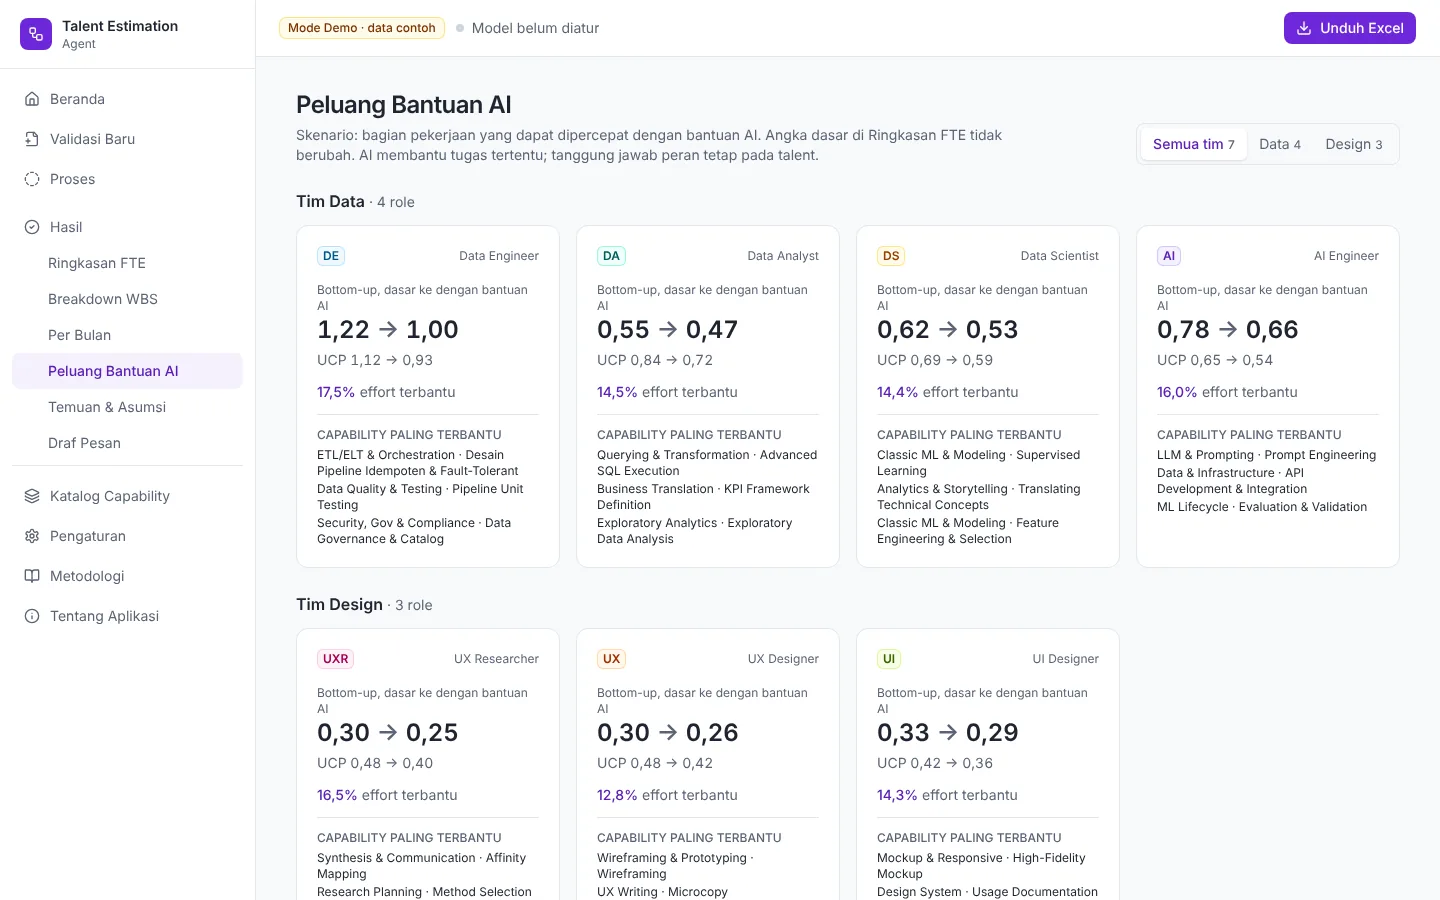
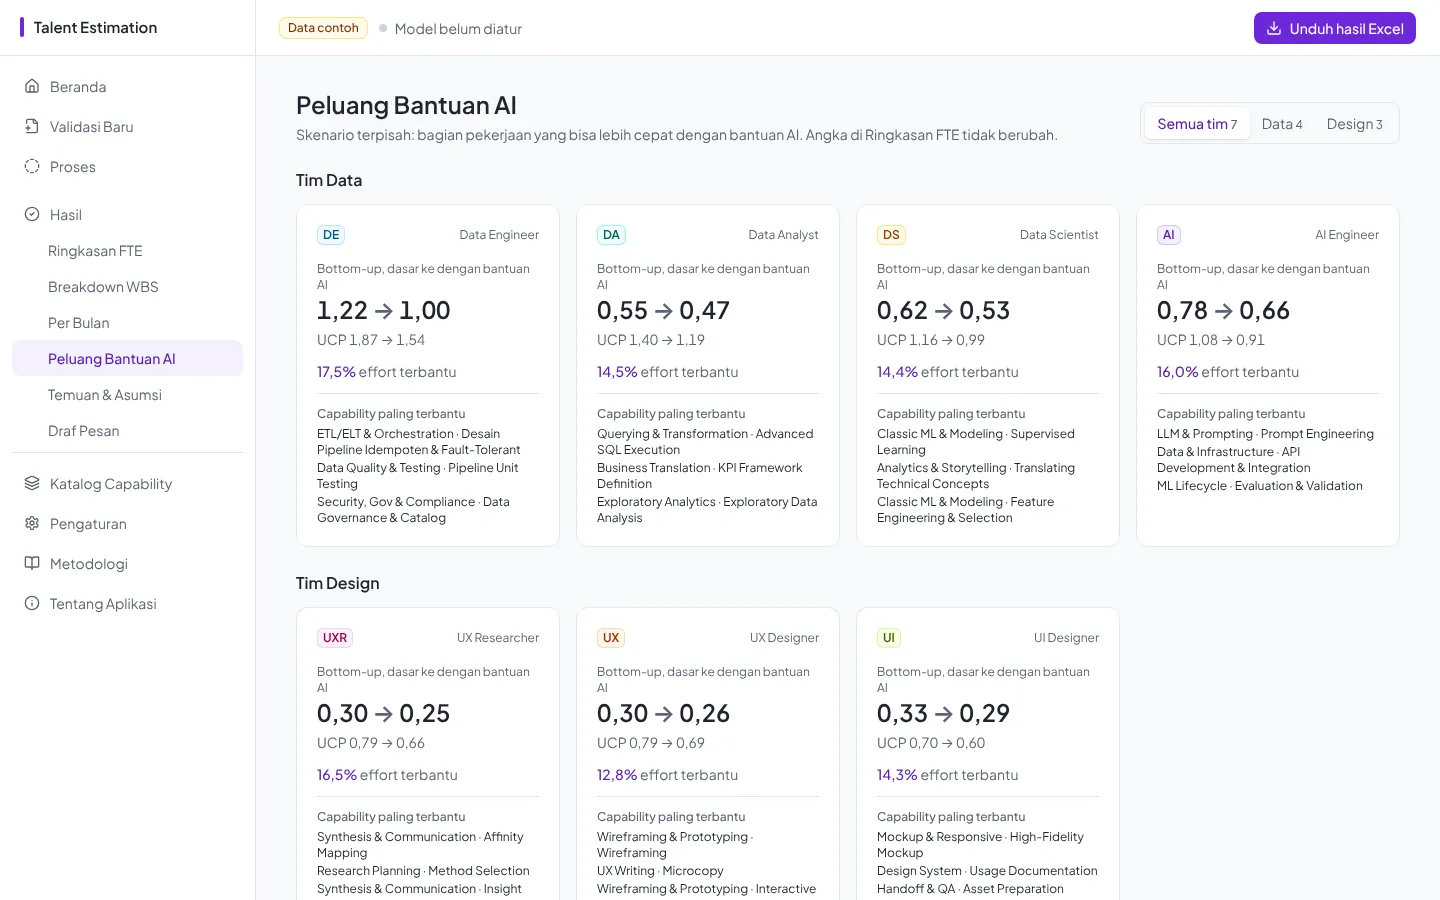
Update Talent Estimation Agent case study for the redesigned app
- New screenshots of the plainer UI (10 screens incl. start page and capability catalog)
- Captions reflect team grouping, review filter, pager, catalog upload/download
- Default 15 hours per UCP point, gateway support and model-client tests

diff --git a/data/site.ts b/data/site.ts
@@ -267,31 +267,37 @@ export const projects: Project[] = [
       },
       {
         title: "Review and export",
-        text: "Correct any flagged rows, then download the Excel workbook and a draft reply to the requester.",
+        text: "Check and correct any flagged rows, approve the result, then download the Excel workbook and a draft reply to the requester.",
       },
     ],
     shots: [
       {
+        src: `${TEA}/home.webp`,
+        title: "Start here",
+        caption:
+          "A plain-language start page: a sample result card, the three steps, and a quick checklist for the model, the capability catalog and the WBS file. A demo with fictional data runs without any API key.",
+      },
+      {
         src: `${TEA}/process.webp`,
         title: "Agents at work",
-        caption: "Six agents run in sequence with a live activity log, so you can see what each step is doing and why.",
+        caption: "Six agents run in sequence next to a live activity log, so you can see what each step is doing and why.",
       },
       {
         src: `${TEA}/summary.webp`,
         title: "FTE summary",
         caption:
-          "Required FTE per role from both methods, compared with the original request. Rows that need a human look are flagged.",
+          "Required FTE per role from both methods, grouped by team and compared with the original request. Rows that need a human look are flagged, and one click opens them.",
       },
       {
         src: `${TEA}/breakdown.webp`,
         title: "WBS breakdown",
         caption:
-          "One row per work item and role. Change the role, class or allocation and every total recalculates without calling the model.",
+          "One row per work item and role, with search and a filter for rows that need review. Change the role, class or allocation and every total recalculates without calling the model.",
       },
       {
         src: `${TEA}/monthly.webp`,
         title: "Per month",
-        caption: "Effort spread across months by working days, shown as a stacked chart plus a table with peak FTE.",
+        caption: "Effort spread across months by working days, as a stacked chart plus a table with peak FTE. Switch between methods and teams.",
       },
       {
         src: `${TEA}/ai-assist.webp`,
@@ -308,7 +314,14 @@ export const projects: Project[] = [
       {
         src: `${TEA}/message.webp`,
         title: "Draft message",
-        caption: "A ready-to-edit reply to the requester, built from the calculated numbers. Attach the Excel so every figure is traceable.",
+        caption:
+          "A ready-to-edit reply to the requester, built from the calculated numbers. Previous and next links move through the result pages in reading order.",
+      },
+      {
+        src: `${TEA}/catalog.webp`,
+        title: "Capability catalog",
+        caption:
+          "The capabilities each role can apply, in a compact list with a detail panel. Use the built-in catalog, or download it as Excel, edit it and upload your own.",
       },
       {
         src: `${TEA}/method.webp`,
@@ -323,7 +336,7 @@ export const projects: Project[] = [
           "Each WBS item per role is classed Simple (5), Average (10) or Complex (15) from the number of steps involved.",
           "Roles that only support an item count for part of it (default 25%).",
           "Actor weights, then technical (TCF) and environmental (EF) factors. Ratings start at 3 and change only with evidence.",
-          "Points are multiplied by hours per point, then converted with hours per day, days per month and project length into average FTE.",
+          "Points are multiplied by hours per point (15 by default), then converted with hours per day, days per month and project length into average FTE.",
         ],
         note: "Based on Karner (1993), Resource estimation for objectory projects.",
       },
@@ -370,16 +383,17 @@ export const projects: Project[] = [
       { label: "Contracts", value: "Pydantic v2, structured output with schema validation" },
       { label: "API", value: "FastAPI on Vercel Python Functions (stateless)" },
       { label: "Excel", value: "openpyxl, formulas recalculated by Excel on open" },
-      { label: "UI", value: "Next.js · React · Tailwind CSS · Recharts" },
+      { label: "UI", value: "Next.js · React · Tailwind CSS · Recharts (Indonesian interface)" },
       { label: "Evaluation", value: "Kedro pipeline (offline)" },
       { label: "Tooling", value: "uv · Ruff · mypy · pytest · pre-commit · GitHub Actions" },
-      { label: "Models", value: "Gemini, Claude, OpenAI, Azure OpenAI or any OpenAI-compatible endpoint" },
+      { label: "Models", value: "Gemini, Claude, OpenAI, Azure OpenAI or any OpenAI-compatible gateway, with custom headers and token limits" },
     ],
     quality: [
       "Ruff lint and format",
       "mypy type checks",
       "pytest with 94% coverage",
       "Excel formulas recalculated in LibreOffice and compared with the engine",
+      "Tests for the model client: endpoints that refuse certain settings, and budget or quota errors that must not be retried",
       "Kedro evaluation pipeline",
       "Dependency lock check with uv",
       "TypeScript checks on the UI",
